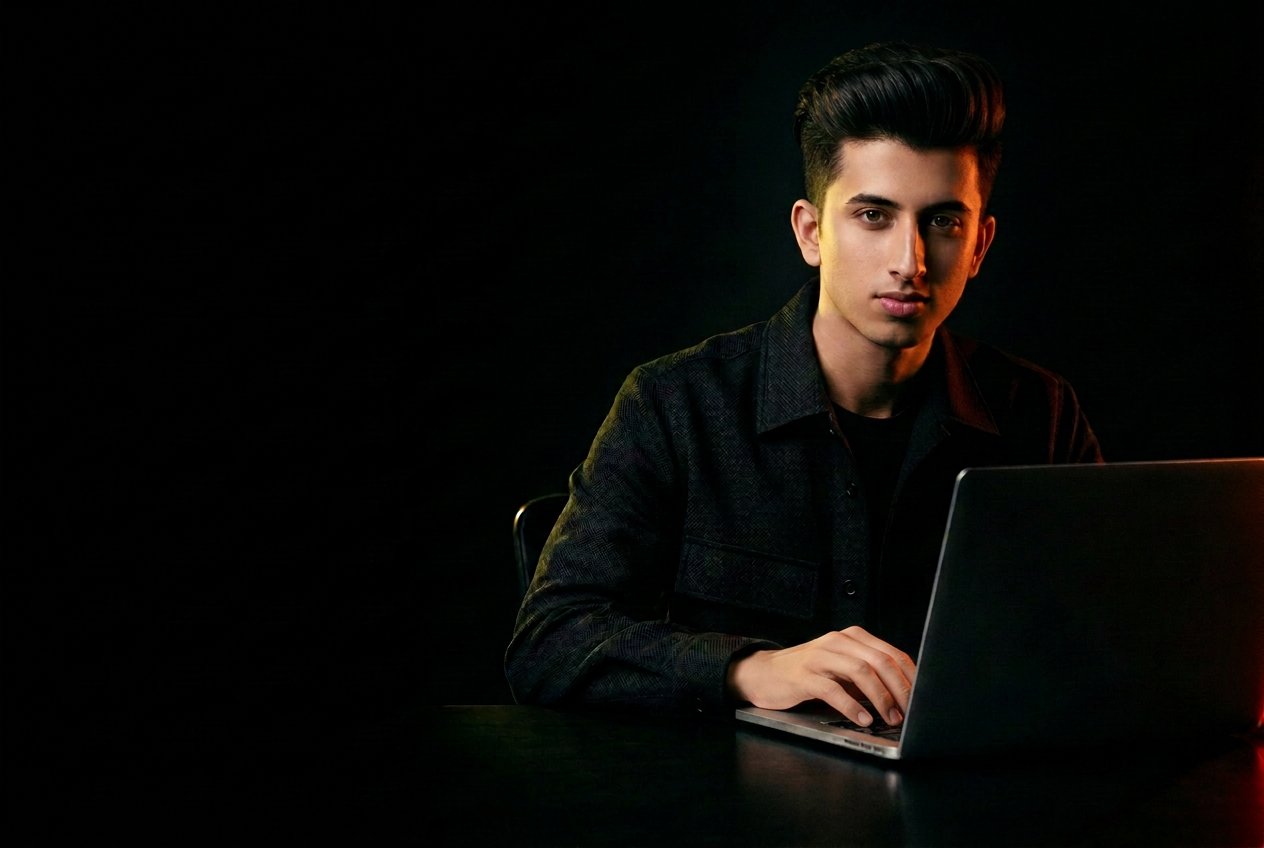
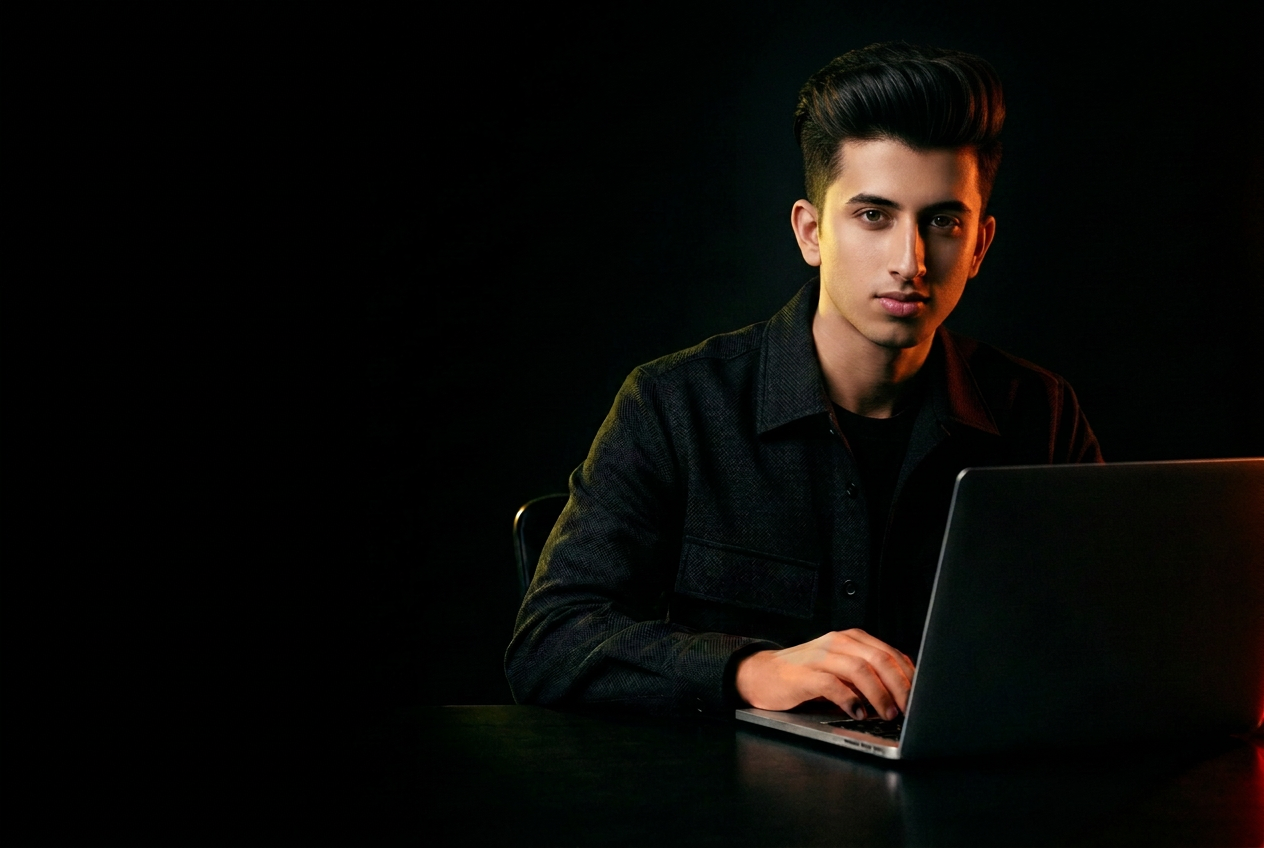
Changes

Changed region(s): [[0.5554, 0.7358, 0.7405, 0.8892]]

diff --git a/src/styles.css b/src/styles.css
@@ -23,7 +23,7 @@
   --border: oklch(1 0 0 / 20%); --input: oklch(1 0 0 / 20%); --ring: oklch(0.94 0.2 106);
   --hot: oklch(0.65 0.24 35); --volt: oklch(0.94 0.2 106); --ink: oklch(0.035 0 0); --paper: oklch(0.975 0.006 90);
   --hero-shade: oklch(0.025 0 0 / 82%); --hero-veil: oklch(0.025 0 0 / 30%); --hero-line: oklch(0.98 0 0 / 5%); --ink-rule: oklch(0.04 0 0 / 35%); --watermark: oklch(0.04 0 0 / 8%);
-  --particle: oklch(0.02 0 0 / 90%); --shadow-shard: oklch(0.02 0 0 / 80%); --font-contact: "Barlow Condensed", sans-serif; --name-shadow: 5px 5px 0 var(--ink), 9px 9px 0 oklch(.65 .24 35 / 40%), 0 0 60px oklch(.65 .24 35 / 22%);
+  --heat-edge: oklch(.48 .18 30 / 40%); --heat-core: oklch(.25 .08 28 / 65%); --heat-shadow: oklch(.015 0 0 / 80%); --font-contact: "Barlow Condensed", sans-serif; --name-shadow: 5px 5px 0 var(--ink), 9px 9px 0 oklch(.65 .24 35 / 40%), 0 0 60px oklch(.65 .24 35 / 22%);
   --portrait-mark: oklch(0.98 0 0 / 75%); --wordmark-shadow: 3px 3px 0 var(--ink), 5px 5px 0 oklch(0.65 0.24 35 / 45%); --wordmark-stroke: .7px;
 }
 
@@ -36,7 +36,7 @@ a { color: inherit; text-decoration: none; }
 
 .hero { display: grid; grid-template-rows: auto 1fr auto; position: relative; min-height: 740px; height: min(920px, 94svh); overflow: hidden; isolation: isolate; background: var(--ink); }
 .hero::after { content: ""; position: absolute; inset: 0; z-index: -1; background: linear-gradient(90deg, oklch(0.01 0 0 / 94%) 0%, oklch(0.01 0 0 / 55%) 40%, oklch(0.01 0 0 / 5%) 66%), linear-gradient(0deg, oklch(0.01 0 0 / 70%) 0%, transparent 26%); }
-/* Black architectural shadows only: no colored lighting or ember effects. */
+/* Subtle architectural smoke under restrained scarlet edge effects. */
 .hero-smoke { position: absolute; inset: 0; z-index: 0; pointer-events: none; overflow: hidden;
   background: linear-gradient(110deg, var(--hero-shade), transparent 56%), linear-gradient(0deg, var(--hero-shade), transparent 25%); }
 .hero-smoke::before { content: ""; position: absolute; inset: -20%; opacity: .7;
@@ -306,48 +306,18 @@ a:focus-visible { outline: 2px solid var(--volt); outline-offset: 6px; }
 @keyframes name-reveal { from { opacity: 0; transform: translateY(36px) skewY(5deg); clip-path: inset(0 0 100% 0); } to { opacity: 1; transform: none; clip-path: inset(0); } }
 .topbar { animation: content-arrive .9s .6s ease-out both; }
 .hero-footer { animation: content-arrive .9s 1s ease-out both; }
-.dark-particles { position: absolute; inset: 0; z-index: 1; pointer-events: none; overflow: hidden; }
-.dark-particles i { position: absolute; width: 3px; height: 3px; background: var(--particle); border-radius: 0; animation: particle-drift 15s linear infinite; }
-@keyframes particle-drift { 0% { transform: translate3d(0, 60px, 0); opacity: 0; } 20%, 75% { opacity: .95; } 100% { transform: translate3d(80px, -260px, 0); opacity: 0; } }
-.dark-particles i:nth-child(1) { left: 37%; top: 23%; animation-delay: -7s; animation-duration: 14s; width: 3px; height: 3px; }
-.dark-particles i:nth-child(2) { left: 74%; top: 46%; animation-delay: -14s; animation-duration: 15s; width: 4px; height: 4px; }
-.dark-particles i:nth-child(3) { left: 15%; top: 69%; animation-delay: -2s; animation-duration: 16s; width: 2px; height: 2px; }
-.dark-particles i:nth-child(4) { left: 52%; top: 92%; animation-delay: -9s; animation-duration: 17s; width: 3px; height: 3px; }
-.dark-particles i:nth-child(5) { left: 89%; top: 18%; animation-delay: -16s; animation-duration: 18s; width: 4px; height: 4px; }
-.dark-particles i:nth-child(6) { left: 30%; top: 41%; animation-delay: -4s; animation-duration: 19s; width: 2px; height: 2px; }
-.dark-particles i:nth-child(7) { left: 67%; top: 64%; animation-delay: -11s; animation-duration: 20s; width: 3px; height: 3px; }
-.dark-particles i:nth-child(8) { left: 8%; top: 87%; animation-delay: -18s; animation-duration: 13s; width: 4px; height: 4px; }
-.dark-particles i:nth-child(9) { left: 45%; top: 13%; animation-delay: -6s; animation-duration: 14s; width: 2px; height: 2px; }
-.dark-particles i:nth-child(10) { left: 82%; top: 36%; animation-delay: -13s; animation-duration: 15s; width: 3px; height: 3px; }
-.dark-particles i:nth-child(11) { left: 23%; top: 59%; animation-delay: -1s; animation-duration: 16s; width: 4px; height: 4px; }
-.dark-particles i:nth-child(12) { left: 60%; top: 82%; animation-delay: -8s; animation-duration: 17s; width: 2px; height: 2px; }
-.dark-particles i:nth-child(13) { left: 1%; top: 8%; animation-delay: -15s; animation-duration: 18s; width: 3px; height: 3px; }
-.dark-particles i:nth-child(14) { left: 38%; top: 31%; animation-delay: -3s; animation-duration: 19s; width: 4px; height: 4px; }
-.dark-particles i:nth-child(15) { left: 75%; top: 54%; animation-delay: -10s; animation-duration: 20s; width: 2px; height: 2px; }
-.dark-particles i:nth-child(16) { left: 16%; top: 77%; animation-delay: -17s; animation-duration: 13s; width: 3px; height: 3px; }
-.dark-particles i:nth-child(17) { left: 53%; top: 3%; animation-delay: -5s; animation-duration: 14s; width: 4px; height: 4px; }
-.dark-particles i:nth-child(18) { left: 90%; top: 26%; animation-delay: -12s; animation-duration: 15s; width: 2px; height: 2px; }
-.dark-particles i:nth-child(19) { left: 31%; top: 49%; animation-delay: -0s; animation-duration: 16s; width: 3px; height: 3px; }
-.dark-particles i:nth-child(20) { left: 68%; top: 72%; animation-delay: -7s; animation-duration: 17s; width: 4px; height: 4px; }
-.dark-particles i:nth-child(21) { left: 9%; top: 95%; animation-delay: -14s; animation-duration: 18s; width: 2px; height: 2px; }
-.dark-particles i:nth-child(22) { left: 46%; top: 21%; animation-delay: -2s; animation-duration: 19s; width: 3px; height: 3px; }
-.dark-particles i:nth-child(23) { left: 83%; top: 44%; animation-delay: -9s; animation-duration: 20s; width: 4px; height: 4px; }
-.dark-particles i:nth-child(24) { left: 24%; top: 67%; animation-delay: -16s; animation-duration: 13s; width: 2px; height: 2px; }
-.dark-particles i:nth-child(25) { left: 61%; top: 90%; animation-delay: -4s; animation-duration: 14s; width: 3px; height: 3px; }
-.dark-particles i:nth-child(26) { left: 2%; top: 16%; animation-delay: -11s; animation-duration: 15s; width: 4px; height: 4px; }
-.dark-particles i:nth-child(27) { left: 39%; top: 39%; animation-delay: -18s; animation-duration: 16s; width: 2px; height: 2px; }
-.dark-particles i:nth-child(28) { left: 76%; top: 62%; animation-delay: -6s; animation-duration: 17s; width: 3px; height: 3px; }
-
-.shadow-shards { position: absolute; inset: 0; z-index: 1; pointer-events: none; overflow: hidden; }
-.shadow-shards i { position: absolute; width: 18%; height: 75%; background: var(--shadow-shard); clip-path: polygon(0 0, 100% 25%, 35% 100%); animation: shard-drift 12s ease-in-out infinite alternate; }
-.shadow-shards i:nth-child(1) { left: 25%; top: -35%; animation-delay: -4s; }
-.shadow-shards i:nth-child(2) { left: 2%; top: 58%; animation-delay: -9s; animation-duration: 22s; }
-.shadow-shards i:nth-child(3) { right: -10%; top: 48%; animation-delay: -13s; }
-.shadow-shards i:nth-child(4) { left: 48%; top: 76%; animation-delay: -6s; width: 30%; }
-@keyframes shard-drift { from { transform: translate3d(-35px, -50px, 0) rotate(-16deg); } to { transform: translate3d(65px, 75px, 0) rotate(12deg); } }
+/* Low, slow scarlet edge cuts: no square particles or floating bubbles. */
+.hero-heat { position: absolute; inset: 0; z-index: 0; overflow: hidden; pointer-events: none; }
+.hero-heat::before { content: ""; position: absolute; inset: 0; background: linear-gradient(90deg, var(--heat-core), transparent 17%, transparent 94%, var(--heat-edge)), linear-gradient(0deg, var(--heat-core), transparent 18%); opacity: .65; animation: heat-breathe 7s ease-in-out infinite alternate; }
+.hero-heat i { position: absolute; width: 12%; height: 40%; background: linear-gradient(110deg, var(--heat-shadow) 35%, var(--heat-core) 80%, var(--heat-edge)); clip-path: polygon(78% 0, 100% 0, 25% 100%, 0 100%); animation: heat-cut-drift 10s ease-in-out infinite alternate; }
+.hero-heat i:nth-child(1) { left: -5%; top: 12%; }
+.hero-heat i:nth-child(2) { right: -7%; top: 35%; animation-delay: -4s; }
+.hero-heat i:nth-child(3) { left: 41%; bottom: -25%; height: 33%; animation-delay: -7s; opacity: .55; }
+@keyframes heat-breathe { from { opacity: .4; } to { opacity: .85; } }
+@keyframes heat-cut-drift { from { transform: translate3d(-8px, 8px, 0); opacity: .5; } to { transform: translate3d(10px, -14px, 0); opacity: .9; } }
 .cv-download-error a { text-decoration: underline; color: var(--volt); }
-@media (max-width: 700px) { .shadow-shards i { opacity: .6; } .contact-row { gap: .5rem; } }
-@media (prefers-reduced-motion: reduce) { .dark-particles { display: none; } *, *::before, *::after { animation: none !important; transition: none !important; } }
+@media (max-width: 700px) { .hero-heat i { width: 18%; } .contact-row { gap: .5rem; } }
+@media (prefers-reduced-motion: reduce) { *, *::before, *::after { animation: none !important; transition: none !important; } }
 
 
 /* Compact, heavy editorial signature echoes the hot headline accent. */

diff --git a/src/routes/index.tsx b/src/routes/index.tsx
@@ -2,7 +2,7 @@ import { createFileRoute, Link } from "@tanstack/react-router";
 import { ArrowDown, ArrowUpRight, FileText, Linkedin } from "lucide-react";
 import { Button } from "@/components/ui/button";
 import { CvDownload } from "@/components/cv-download";
-import portrait from "@/assets/wahab-young-natural-hand.png";
+import portrait from "@/assets/wahab-slim-youthful-hand-v2.png";
 import raahPreviewAsset from "@/assets/raah-preview.png.asset.json";
 import sawaaPreviewAsset from "@/assets/sawaa-preview.png.asset.json";
 
@@ -52,8 +52,7 @@ function Portfolio() {
       <section className="hero" aria-label="Syed Abdul Wahab introduction">
         <div className="hero-smoke" aria-hidden="true" />
         <div className="hero-texture" aria-hidden="true" />
-        <div className="dark-particles" aria-hidden="true">{Array.from({ length: 28 }, (_, index) => <i key={index} />)}</div>
-        <div className="shadow-shards" aria-hidden="true"><i /><i /><i /><i /></div>
+        <div className="hero-heat" aria-hidden="true"><i /><i /><i /></div>
         <img className="hero-image" src={portrait} alt="Syed Abdul Wahab in a sharply lit editorial portrait" width={1145} height={768} fetchPriority="high" />
         <div className="topbar" aria-hidden="true" />
         <a className="saw-wordmark" href="#top" aria-label="SAW — Syed Abdul Wahab">SAW<span>.</span></a>
